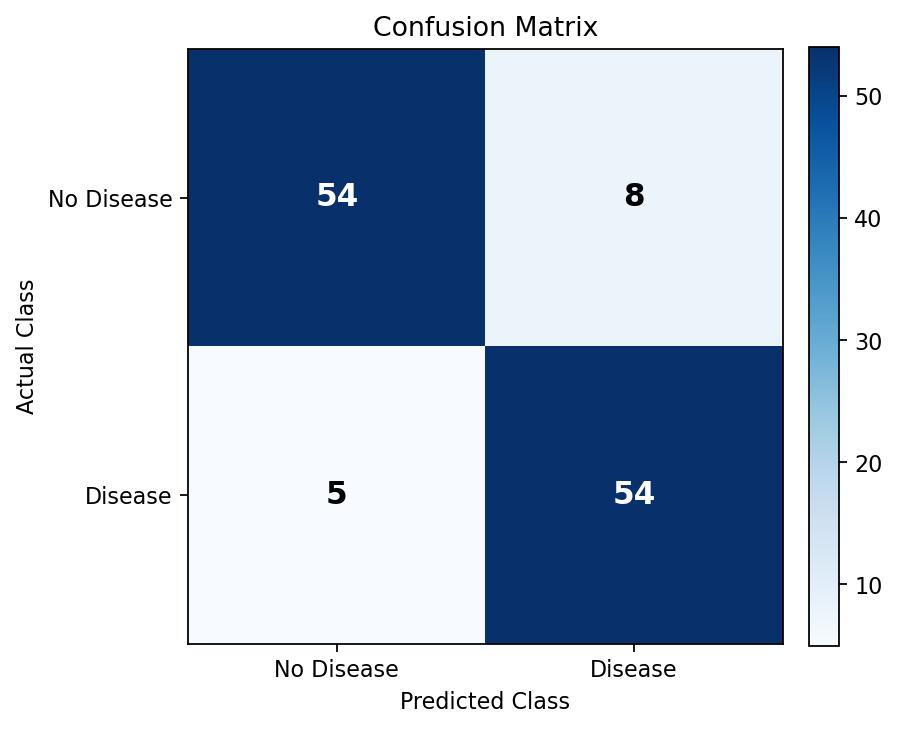
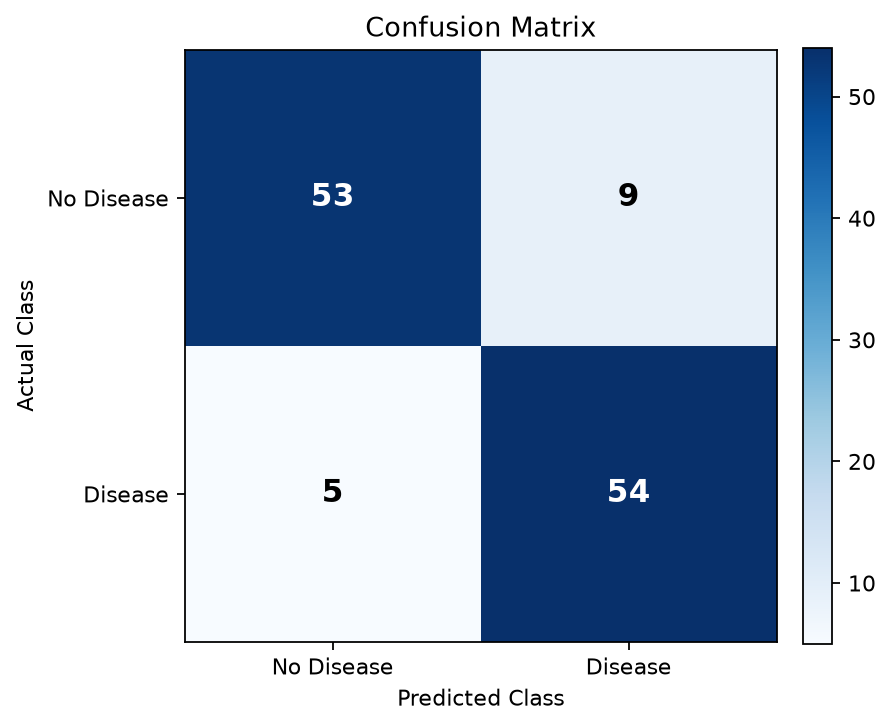
Implement K-Nearest Neighbors model with hyperparameter tuning and update metrics

diff --git a/train_knn.py b/train_knn.py
@@ -3,14 +3,19 @@ from __future__ import annotations
 import argparse
 from pathlib import Path
 
+import heart_model as hm
 from heart_model import (
     KNN_MODEL_NAME,
+    MODEL_OPTIONS,
     dataset_analysis,
     load_dataset,
     metrics_to_table,
     save_artifacts,
     train_models,
+    tune_knn_hyperparameters,
 )
+from sklearn.neighbors import KNeighborsClassifier
+
 from heart_visuals import save_knn_visualizations
 
 
@@ -37,6 +42,11 @@ def parse_args() -> argparse.Namespace:
         default="artifacts",
         help="Folder used to save trained models and metrics.",
     )
+    parser.add_argument(
+        "--skip-tuning",
+        action="store_true",
+        help="Skip hyperparameter tuning and use the pre-set defaults in MODEL_OPTIONS.",
+    )
     return parser.parse_args()
 
 
@@ -61,13 +71,90 @@ def main() -> None:
         f"{analysis['deduplicated_heart_disease']} disease"
     )
     print("Split & preprocessing    : 80/20 split, scaling, one-hot encoding")
-    print("KNN setup                : n_neighbors=11, metric=minkowski")
     print()
 
+    # ------------------------------------------------------------------
+    # 2. HYPERPARAMETER TUNING (training set / cross-validation only)
+    # ------------------------------------------------------------------
+    if not args.skip_tuning:
+        print("2. KNN HYPERPARAMETER TUNING (5-fold StratifiedKFold on training set)")
+        print("-" * 76)
+        print("Searching: n_neighbors in {3,5,...,25}, weights in {uniform,distance},")
+        print("           metric = minkowski with p in {1 (Manhattan), 2 (Euclidean)}")
+        print("(Test set is never touched during this step.)")
+        print()
+
+        tuning_results = tune_knn_hyperparameters(df)
+
+        # ---- Print top-10 combinations by CV accuracy ----
+        print(f"{'Rank':<5} {'k':<5} {'Weights':<10} {'Metric':<22} "
+              f"{'CV Acc Mean':>12} {'CV Acc Std':>11} {'CV F1 Mean':>11}")
+        print("-" * 76)
+        for rank, row in enumerate(tuning_results.head(10).itertuples(), start=1):
+            print(
+                f"{rank:<5} {row.n_neighbors:<5} {row.weights:<10} {row.metric:<22} "
+                f"{row._5 * 100:>11.2f}% {row._6 * 100:>10.2f}% {row._7 * 100:>10.2f}%"
+            )
+        print()
+
+        # ---- Extract best combination ----
+        best = tuning_results.iloc[0]
+        best_k = int(best["n_neighbors"])
+        best_weights = str(best["weights"])
+        best_p = int(best["p"])
+        best_metric_label = str(best["metric"])
+
+        print(
+            f"Best combination         : k={best_k}, weights={best_weights!r}, "
+            f"metric={best_metric_label}"
+        )
+        print(
+            f"Best CV accuracy         : {best['CV Accuracy Mean'] * 100:.2f}% "
+            f"(±{best['CV Accuracy Std'] * 100:.2f}%)"
+        )
+        print()
+
+        # ---- Persist full tuning grid for the Methodology report ----
+        output_dir = Path(args.output)
+        output_dir.mkdir(parents=True, exist_ok=True)
+        tuning_csv = output_dir / "knn_tuning_results.csv"
+        report_cols = ["n_neighbors", "weights", "metric",
+                       "CV Accuracy Mean", "CV Accuracy Std",
+                       "CV F1 Mean", "CV F1 Std"]
+        tuning_results[report_cols].to_csv(tuning_csv, index=False, float_format="%.6f")
+        print(f"Full tuning grid saved   : {tuning_csv.resolve()}")
+        print()
+
+        # ---- Patch MODEL_OPTIONS so train_models() uses best params ----
+        hm.MODEL_OPTIONS[KNN_MODEL_NAME] = KNeighborsClassifier(
+            n_neighbors=best_k,
+            weights=best_weights,
+            metric="minkowski",
+            p=best_p,
+            n_jobs=1,
+        )
+        knn_setup_label = (
+            f"n_neighbors={best_k}, weights={best_weights!r}, "
+            f"metric={best_metric_label}"
+        )
+    else:
+        current = MODEL_OPTIONS[KNN_MODEL_NAME]
+        knn_setup_label = (
+            f"n_neighbors={current.n_neighbors}, "
+            f"weights={current.weights!r}, "
+            f"metric={current.metric} (p={current.p}) [pre-set defaults, tuning skipped]"
+        )
+
+    print("KNN setup                :", knn_setup_label)
+    print()
+
+    # ------------------------------------------------------------------
+    # 3. TRAIN ON FULL TRAINING SET, EVALUATE ON HELD-OUT TEST SET
+    # ------------------------------------------------------------------
     models, metrics, _, _ = train_models(df, selected_models=[KNN_MODEL_NAME])
     comparison = metrics_to_table(metrics)
 
-    print("2. KNN RESULT")
+    print("3. KNN RESULT (held-out test set)")
     print("-" * 76)
     print(format_metric_table(comparison).to_string(index=False))
 
@@ -92,12 +179,14 @@ def main() -> None:
         output_dir,
     )
     print()
-    print("3. OUTPUT")
+    print("4. OUTPUT")
     print("-" * 76)
     print(f"Artifacts saved to: {output_dir.resolve()}")
     print("Charts saved:")
     print("- metrics_chart.png")
     print("- confusion_matrix.png")
+    if not args.skip_tuning:
+        print("- knn_tuning_results.csv  (methodology report data)")
     print("Run prototype: python -m streamlit run app.py")
 
 

diff --git a/heart_model.py b/heart_model.py
@@ -115,8 +115,10 @@ MODEL_OPTIONS = {
         random_state=RANDOM_STATE,
     ),
     KNN_MODEL_NAME: KNeighborsClassifier(
-        n_neighbors=11,
+        n_neighbors=11,      # best from tune_knn_hyperparameters() grid search
+        weights="distance",  # distance-weighted voting outperforms uniform
         metric="minkowski",
+        p=1,                 # Manhattan distance (p=1) outperforms Euclidean (p=2)
         n_jobs=1,
     ),
 }
@@ -420,6 +422,99 @@ def evaluate_logistic_experiments(df: pd.DataFrame) -> pd.DataFrame:
             )
 
     return pd.DataFrame(rows)
+
+
+def tune_knn_hyperparameters(
+    df: pd.DataFrame,
+    n_neighbors_range: list[int] | None = None,
+    drop_duplicates: bool = True,
+) -> pd.DataFrame:
+    """Search over KNN hyperparameters using StratifiedKFold cross-validation.
+
+    Tuning is performed exclusively on the training split — the held-out test
+    set is never seen during this step, preserving honest final evaluation.
+
+    Parameters
+    ----------
+    df:
+        Raw dataset as returned by ``load_dataset``.
+    n_neighbors_range:
+        Odd values of k to evaluate.  Defaults to ``range(3, 26, 2)``.
+    drop_duplicates:
+        Whether to remove duplicate rows before splitting, consistent with
+        the rest of the training pipeline.
+
+    Returns
+    -------
+    pd.DataFrame
+        One row per (k, weights, p) combination with CV accuracy mean/std,
+        sorted by mean CV accuracy descending.
+    """
+    if n_neighbors_range is None:
+        n_neighbors_range = list(range(3, 26, 2))  # odd numbers 3..25
+
+    cleaned = clean_dataset(df, drop_duplicates=drop_duplicates)
+    X, y = split_features_target(cleaned)
+
+    X_train, _X_test, y_train, _y_test = train_test_split(
+        X,
+        y,
+        test_size=0.2,
+        random_state=RANDOM_STATE,
+        stratify=y,
+    )
+
+    cv = StratifiedKFold(n_splits=5, shuffle=True, random_state=RANDOM_STATE)
+
+    param_grid = [
+        {"weights": w, "p": p}
+        for w in ("uniform", "distance")
+        for p in (1, 2)
+    ]
+
+    rows = []
+    for k in n_neighbors_range:
+        for params in param_grid:
+            pipeline = Pipeline(
+                steps=[
+                    ("preprocessor", build_preprocessor(X_train)),
+                    (
+                        "classifier",
+                        KNeighborsClassifier(
+                            n_neighbors=k,
+                            weights=params["weights"],
+                            metric="minkowski",
+                            p=params["p"],
+                            n_jobs=1,
+                        ),
+                    ),
+                ]
+            )
+            cv_scores = cross_validate(
+                pipeline,
+                X_train,
+                y_train,
+                cv=cv,
+                scoring=["accuracy", "f1"],
+                n_jobs=1,
+            )
+            rows.append(
+                {
+                    "n_neighbors": k,
+                    "weights": params["weights"],
+                    "metric": f"minkowski (p={params['p']})",
+                    "p": params["p"],
+                    "CV Accuracy Mean": cv_scores["test_accuracy"].mean(),
+                    "CV Accuracy Std": cv_scores["test_accuracy"].std(),
+                    "CV F1 Mean": cv_scores["test_f1"].mean(),
+                    "CV F1 Std": cv_scores["test_f1"].std(),
+                }
+            )
+
+    results = pd.DataFrame(rows).sort_values(
+        ["CV Accuracy Mean", "CV F1 Mean"], ascending=False
+    ).reset_index(drop=True)
+    return results
 
 
 def metrics_to_table(metrics: dict[str, dict[str, Any]]) -> pd.DataFrame:
